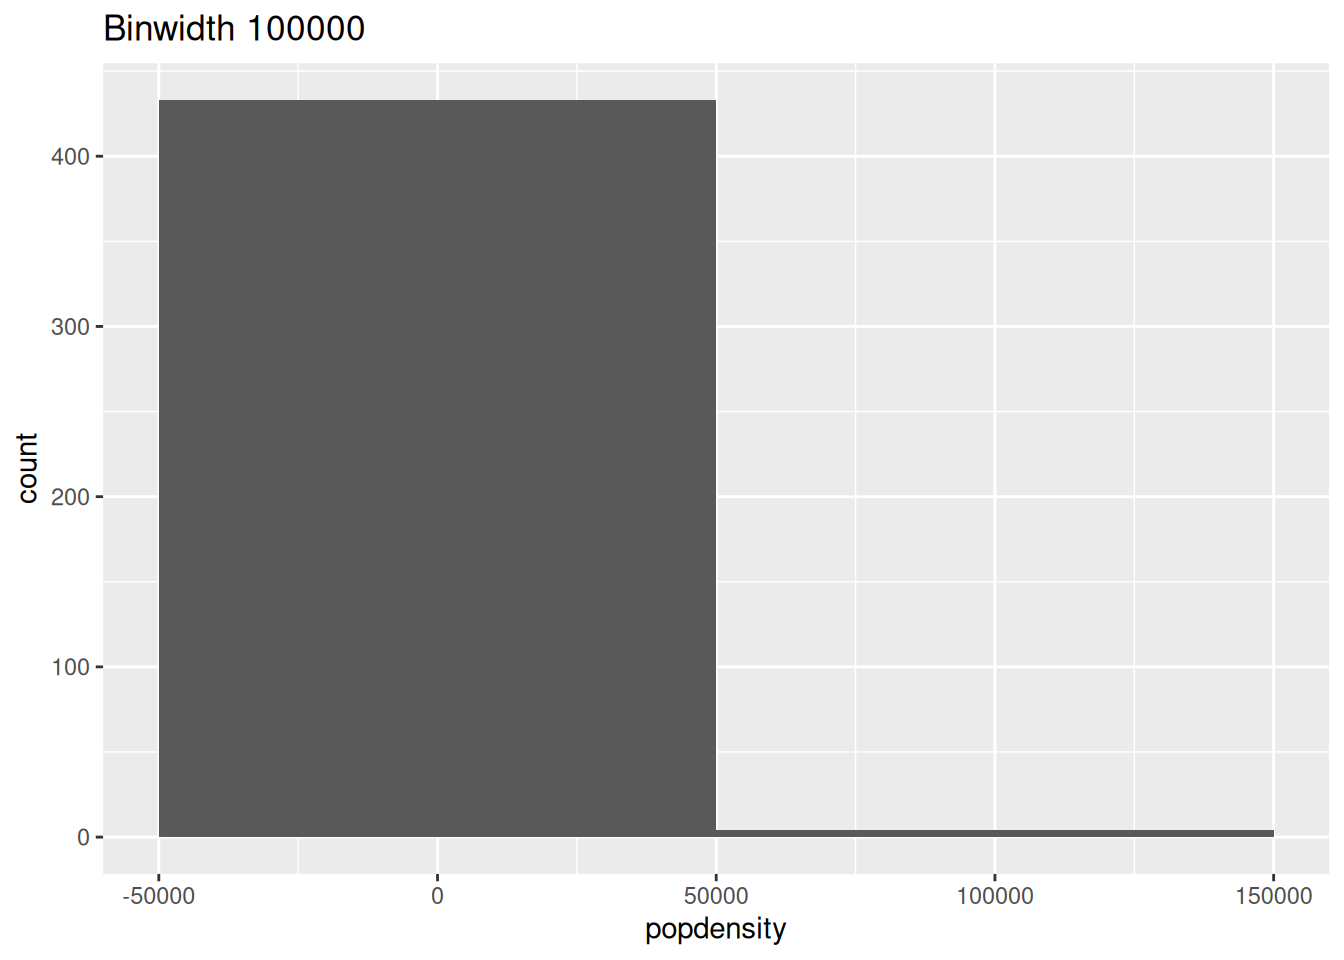
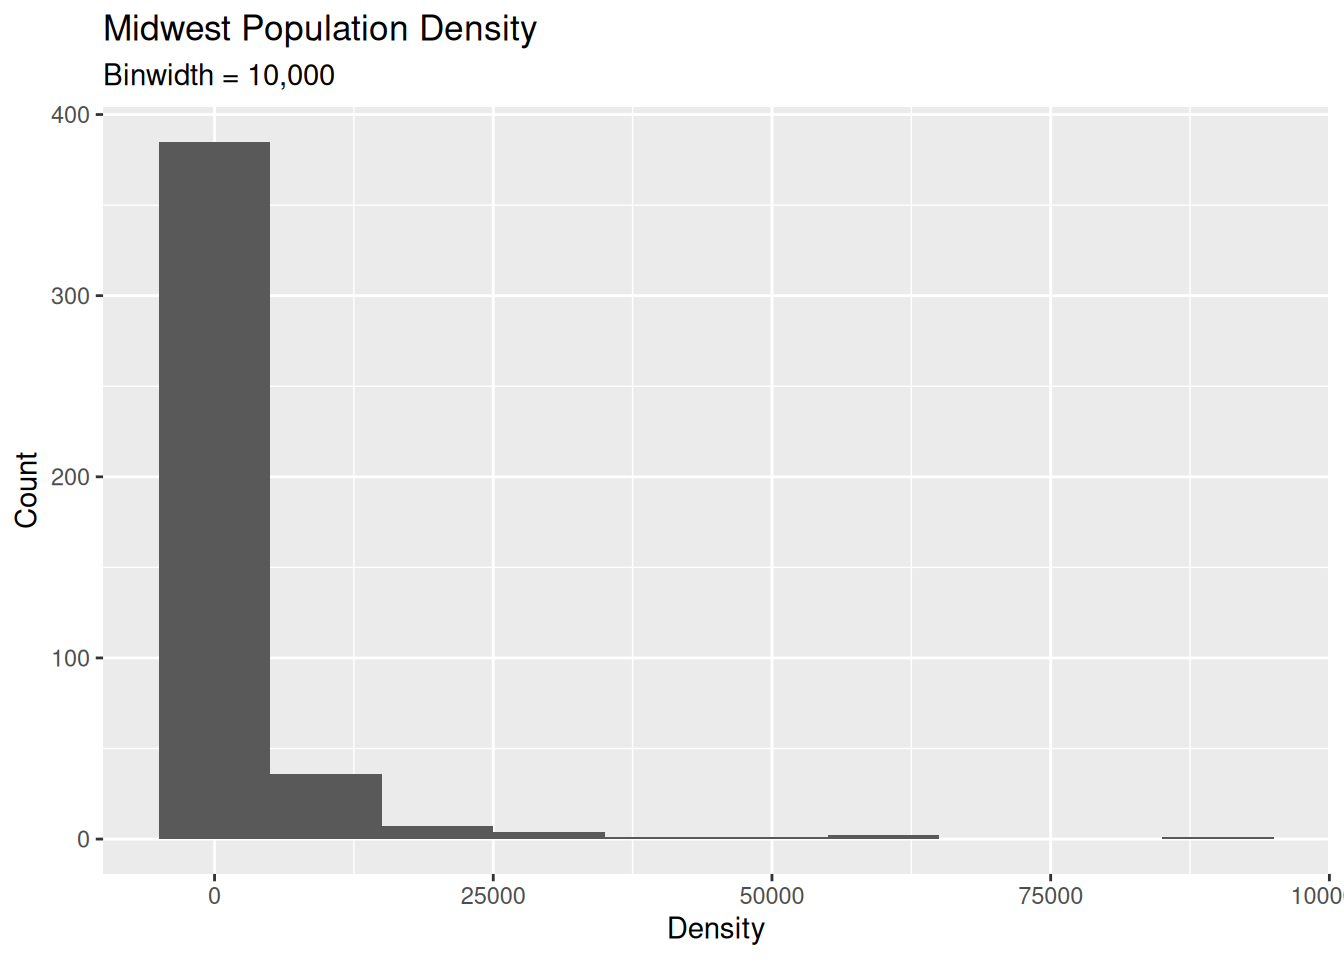
Added better axis titles and finished Q2

diff --git a/lab-1.html b/lab-1.html
@@ -123,20 +123,8 @@ pre > code.sourceCode > span > a:first-child::before { text-decoration: underlin
 <div class="cell">
 <div class="code-copy-outer-scaffold"><div class="sourceCode cell-code" id="cb3"><pre class="sourceCode r code-with-copy"><code class="sourceCode r"><span id="cb3-1"><a href="#cb3-1" aria-hidden="true" tabindex="-1"></a><span class="fu">ggplot</span>(midwest, <span class="fu">aes</span>(<span class="at">x =</span> popdensity)) <span class="sc">+</span></span>
 <span id="cb3-2"><a href="#cb3-2" aria-hidden="true" tabindex="-1"></a>  <span class="fu">geom_histogram</span>(<span class="at">binwidth =</span> <span class="dv">100</span>) <span class="sc">+</span></span>
-<span id="cb3-3"><a href="#cb3-3" aria-hidden="true" tabindex="-1"></a>  <span class="fu">labs</span>(<span class="at">title =</span> <span class="st">"Binwidth 100"</span>)</span></code></pre></div><button title="Copy to Clipboard" class="code-copy-button"><i class="bi"></i></button></div>
-<div class="cell-output-display">
-<div>
-<figure class="figure">
-<p><img src="lab-1_files/figure-html/unnamed-chunk-2-1.png" class="img-fluid figure-img" width="672"></p>
-</figure>
-</div>
-</div>
-</div>
-<div class="cell">
-<div class="code-copy-outer-scaffold"><div class="sourceCode cell-code" id="cb4"><pre class="sourceCode r code-with-copy"><code class="sourceCode r"><span id="cb4-1"><a href="#cb4-1" aria-hidden="true" tabindex="-1"></a><span class="co"># Histogram 2: Binwidth 1000</span></span>
-<span id="cb4-2"><a href="#cb4-2" aria-hidden="true" tabindex="-1"></a><span class="fu">ggplot</span>(midwest, <span class="fu">aes</span>(<span class="at">x =</span> popdensity)) <span class="sc">+</span></span>
-<span id="cb4-3"><a href="#cb4-3" aria-hidden="true" tabindex="-1"></a>  <span class="fu">geom_histogram</span>(<span class="at">binwidth =</span> <span class="dv">1000</span>) <span class="sc">+</span></span>
-<span id="cb4-4"><a href="#cb4-4" aria-hidden="true" tabindex="-1"></a>  <span class="fu">labs</span>(<span class="at">title =</span> <span class="st">"Binwidth 1000"</span>)</span></code></pre></div><button title="Copy to Clipboard" class="code-copy-button"><i class="bi"></i></button></div>
+<span id="cb3-3"><a href="#cb3-3" aria-hidden="true" tabindex="-1"></a>  <span class="fu">labs</span>(<span class="at">title =</span> <span class="st">"Midwest Population Density"</span>, <span class="at">subtitle =</span> <span class="st">"Binwidth = 100"</span>, </span>
+<span id="cb3-4"><a href="#cb3-4" aria-hidden="true" tabindex="-1"></a>       <span class="at">x =</span> <span class="st">"Density"</span>, <span class="at">y =</span> <span class="st">"Count"</span>)</span></code></pre></div><button title="Copy to Clipboard" class="code-copy-button"><i class="bi"></i></button></div>
 <div class="cell-output-display">
 <div>
 <figure class="figure">
@@ -144,10 +132,10 @@ pre > code.sourceCode > span > a:first-child::before { text-decoration: underlin
 </figure>
 </div>
 </div>
-<div class="code-copy-outer-scaffold"><div class="sourceCode cell-code" id="cb5"><pre class="sourceCode r code-with-copy"><code class="sourceCode r"><span id="cb5-1"><a href="#cb5-1" aria-hidden="true" tabindex="-1"></a><span class="co"># Histogram 3: Binwidth 10000</span></span>
-<span id="cb5-2"><a href="#cb5-2" aria-hidden="true" tabindex="-1"></a><span class="fu">ggplot</span>(midwest, <span class="fu">aes</span>(<span class="at">x =</span> popdensity)) <span class="sc">+</span></span>
-<span id="cb5-3"><a href="#cb5-3" aria-hidden="true" tabindex="-1"></a>  <span class="fu">geom_histogram</span>(<span class="at">binwidth =</span> <span class="dv">10000</span>) <span class="sc">+</span></span>
-<span id="cb5-4"><a href="#cb5-4" aria-hidden="true" tabindex="-1"></a>  <span class="fu">labs</span>(<span class="at">title =</span> <span class="st">"Binwidth 10000"</span>)</span></code></pre></div><button title="Copy to Clipboard" class="code-copy-button"><i class="bi"></i></button></div>
+<div class="code-copy-outer-scaffold"><div class="sourceCode cell-code" id="cb4"><pre class="sourceCode r code-with-copy"><code class="sourceCode r"><span id="cb4-1"><a href="#cb4-1" aria-hidden="true" tabindex="-1"></a><span class="fu">ggplot</span>(midwest, <span class="fu">aes</span>(<span class="at">x =</span> popdensity)) <span class="sc">+</span></span>
+<span id="cb4-2"><a href="#cb4-2" aria-hidden="true" tabindex="-1"></a>  <span class="fu">geom_histogram</span>(<span class="at">binwidth =</span> <span class="dv">1000</span>) <span class="sc">+</span></span>
+<span id="cb4-3"><a href="#cb4-3" aria-hidden="true" tabindex="-1"></a>  <span class="fu">labs</span>(<span class="at">title =</span> <span class="st">"Midwest Population Density"</span>, <span class="at">subtitle =</span> <span class="st">"Binwidth = 1,000"</span>, </span>
+<span id="cb4-4"><a href="#cb4-4" aria-hidden="true" tabindex="-1"></a>       <span class="at">x =</span> <span class="st">"Density"</span>, <span class="at">y =</span> <span class="st">"Count"</span>)</span></code></pre></div><button title="Copy to Clipboard" class="code-copy-button"><i class="bi"></i></button></div>
 <div class="cell-output-display">
 <div>
 <figure class="figure">
@@ -155,14 +143,25 @@ pre > code.sourceCode > span > a:first-child::before { text-decoration: underlin
 </figure>
 </div>
 </div>
-<div class="code-copy-outer-scaffold"><div class="sourceCode cell-code" id="cb6"><pre class="sourceCode r code-with-copy"><code class="sourceCode r"><span id="cb6-1"><a href="#cb6-1" aria-hidden="true" tabindex="-1"></a><span class="co"># Histogram 4: Binwidth 100000</span></span>
-<span id="cb6-2"><a href="#cb6-2" aria-hidden="true" tabindex="-1"></a><span class="fu">ggplot</span>(midwest, <span class="fu">aes</span>(<span class="at">x =</span> popdensity)) <span class="sc">+</span></span>
-<span id="cb6-3"><a href="#cb6-3" aria-hidden="true" tabindex="-1"></a>  <span class="fu">geom_histogram</span>(<span class="at">binwidth =</span> <span class="dv">100000</span>) <span class="sc">+</span></span>
-<span id="cb6-4"><a href="#cb6-4" aria-hidden="true" tabindex="-1"></a>  <span class="fu">labs</span>(<span class="at">title =</span> <span class="st">"Binwidth 100000"</span>)</span></code></pre></div><button title="Copy to Clipboard" class="code-copy-button"><i class="bi"></i></button></div>
+<div class="code-copy-outer-scaffold"><div class="sourceCode cell-code" id="cb5"><pre class="sourceCode r code-with-copy"><code class="sourceCode r"><span id="cb5-1"><a href="#cb5-1" aria-hidden="true" tabindex="-1"></a><span class="fu">ggplot</span>(midwest, <span class="fu">aes</span>(<span class="at">x =</span> popdensity)) <span class="sc">+</span></span>
+<span id="cb5-2"><a href="#cb5-2" aria-hidden="true" tabindex="-1"></a>  <span class="fu">geom_histogram</span>(<span class="at">binwidth =</span> <span class="dv">10000</span>) <span class="sc">+</span></span>
+<span id="cb5-3"><a href="#cb5-3" aria-hidden="true" tabindex="-1"></a>  <span class="fu">labs</span>(<span class="at">title =</span> <span class="st">"Midwest Population Density"</span>, <span class="at">subtitle =</span> <span class="st">"Binwidth = 10,000"</span>, </span>
+<span id="cb5-4"><a href="#cb5-4" aria-hidden="true" tabindex="-1"></a>       <span class="at">x =</span> <span class="st">"Density"</span>, <span class="at">y =</span> <span class="st">"Count"</span>)</span></code></pre></div><button title="Copy to Clipboard" class="code-copy-button"><i class="bi"></i></button></div>
 <div class="cell-output-display">
 <div>
 <figure class="figure">
 <p><img src="lab-1_files/figure-html/unnamed-chunk-3-3.png" class="img-fluid figure-img" width="672"></p>
+</figure>
+</div>
+</div>
+<div class="code-copy-outer-scaffold"><div class="sourceCode cell-code" id="cb6"><pre class="sourceCode r code-with-copy"><code class="sourceCode r"><span id="cb6-1"><a href="#cb6-1" aria-hidden="true" tabindex="-1"></a><span class="fu">ggplot</span>(midwest, <span class="fu">aes</span>(<span class="at">x =</span> popdensity)) <span class="sc">+</span></span>
+<span id="cb6-2"><a href="#cb6-2" aria-hidden="true" tabindex="-1"></a>  <span class="fu">geom_histogram</span>(<span class="at">binwidth =</span> <span class="dv">100000</span>) <span class="sc">+</span></span>
+<span id="cb6-3"><a href="#cb6-3" aria-hidden="true" tabindex="-1"></a>  <span class="fu">labs</span>(<span class="at">title =</span> <span class="st">"Midwest Population Density"</span>, <span class="at">subtitle =</span> <span class="st">"Binwidth = 100,000"</span>, </span>
+<span id="cb6-4"><a href="#cb6-4" aria-hidden="true" tabindex="-1"></a>       <span class="at">x =</span> <span class="st">"Density"</span>, <span class="at">y =</span> <span class="st">"Count"</span>)</span></code></pre></div><button title="Copy to Clipboard" class="code-copy-button"><i class="bi"></i></button></div>
+<div class="cell-output-display">
+<div>
+<figure class="figure">
+<p><img src="lab-1_files/figure-html/unnamed-chunk-3-4.png" class="img-fluid figure-img" width="672"></p>
 </figure>
 </div>
 </div>
@@ -174,7 +173,7 @@ pre > code.sourceCode > span > a:first-child::before { text-decoration: underlin
 <div class="cell">
 <div class="code-copy-outer-scaffold"><div class="sourceCode cell-code" id="cb7"><pre class="sourceCode r code-with-copy"><code class="sourceCode r"><span id="cb7-1"><a href="#cb7-1" aria-hidden="true" tabindex="-1"></a><span class="fu">ggplot</span>(midwest, <span class="fu">aes</span>(<span class="at">x =</span> popdensity)) <span class="sc">+</span></span>
 <span id="cb7-2"><a href="#cb7-2" aria-hidden="true" tabindex="-1"></a>  <span class="fu">geom_boxplot</span>() <span class="sc">+</span></span>
-<span id="cb7-3"><a href="#cb7-3" aria-hidden="true" tabindex="-1"></a>  <span class="fu">labs</span>(<span class="at">title =</span> <span class="st">"Population Density Boxplot"</span>)</span></code></pre></div><button title="Copy to Clipboard" class="code-copy-button"><i class="bi"></i></button></div>
+<span id="cb7-3"><a href="#cb7-3" aria-hidden="true" tabindex="-1"></a>  <span class="fu">labs</span>(<span class="at">title =</span> <span class="st">"Boxplot of Population Density"</span>, <span class="at">x =</span> <span class="st">"Population Density"</span>)</span></code></pre></div><button title="Copy to Clipboard" class="code-copy-button"><i class="bi"></i></button></div>
 <div class="cell-output-display">
 <div>
 <figure class="figure">
@@ -182,10 +181,27 @@ pre > code.sourceCode > span > a:first-child::before { text-decoration: underlin
 </figure>
 </div>
 </div>
+<div class="code-copy-outer-scaffold"><div class="sourceCode cell-code" id="cb8"><pre class="sourceCode r code-with-copy"><code class="sourceCode r"><span id="cb8-1"><a href="#cb8-1" aria-hidden="true" tabindex="-1"></a>midwest <span class="sc">|&gt;</span> </span>
+<span id="cb8-2"><a href="#cb8-2" aria-hidden="true" tabindex="-1"></a>  <span class="fu">arrange</span>(<span class="fu">desc</span>(popdensity)) <span class="sc">|&gt;</span> </span>
+<span id="cb8-3"><a href="#cb8-3" aria-hidden="true" tabindex="-1"></a>  <span class="fu">select</span>(county, state, popdensity)</span></code></pre></div><button title="Copy to Clipboard" class="code-copy-button"><i class="bi"></i></button></div>
+<div class="cell-output cell-output-stdout">
+<pre><code># A tibble: 437 × 3
+   county    state popdensity
+   &lt;chr&gt;     &lt;chr&gt;      &lt;dbl&gt;
+ 1 COOK      IL        88018.
+ 2 MILWAUKEE WI        63952.
+ 3 WAYNE     MI        60334.
+ 4 CUYAHOGA  OH        54313.
+ 5 DU PAGE   IL        39083.
+ 6 MARION    IN        34659.
+ 7 HAMILTON  OH        34649.
+ 8 FRANKLIN  OH        28278.
+ 9 MACOMB    MI        25621.
+10 LUCAS     OH        22017.
+# ℹ 427 more rows</code></pre>
 </div>
-</section>
-<section id="question-3" class="level3">
-<h3 class="anchored" data-anchor-id="question-3">Question 3</h3>
+</div>
+<p>The distribution of population density is very right-skewed. The boxplot has a very compressed box representing IQR on the far left, which means that the vast majority of counties have very low population density. There are many outliers extending to the right side of the x-axis. By sorting population density descendingly, we can see that Cook County is the biggest outlier, which makes sense considering it contains Chicago. ### Question 3</p>
 </section>
 <section id="question-4" class="level3">
 <h3 class="anchored" data-anchor-id="question-4">Question 4</h3>
